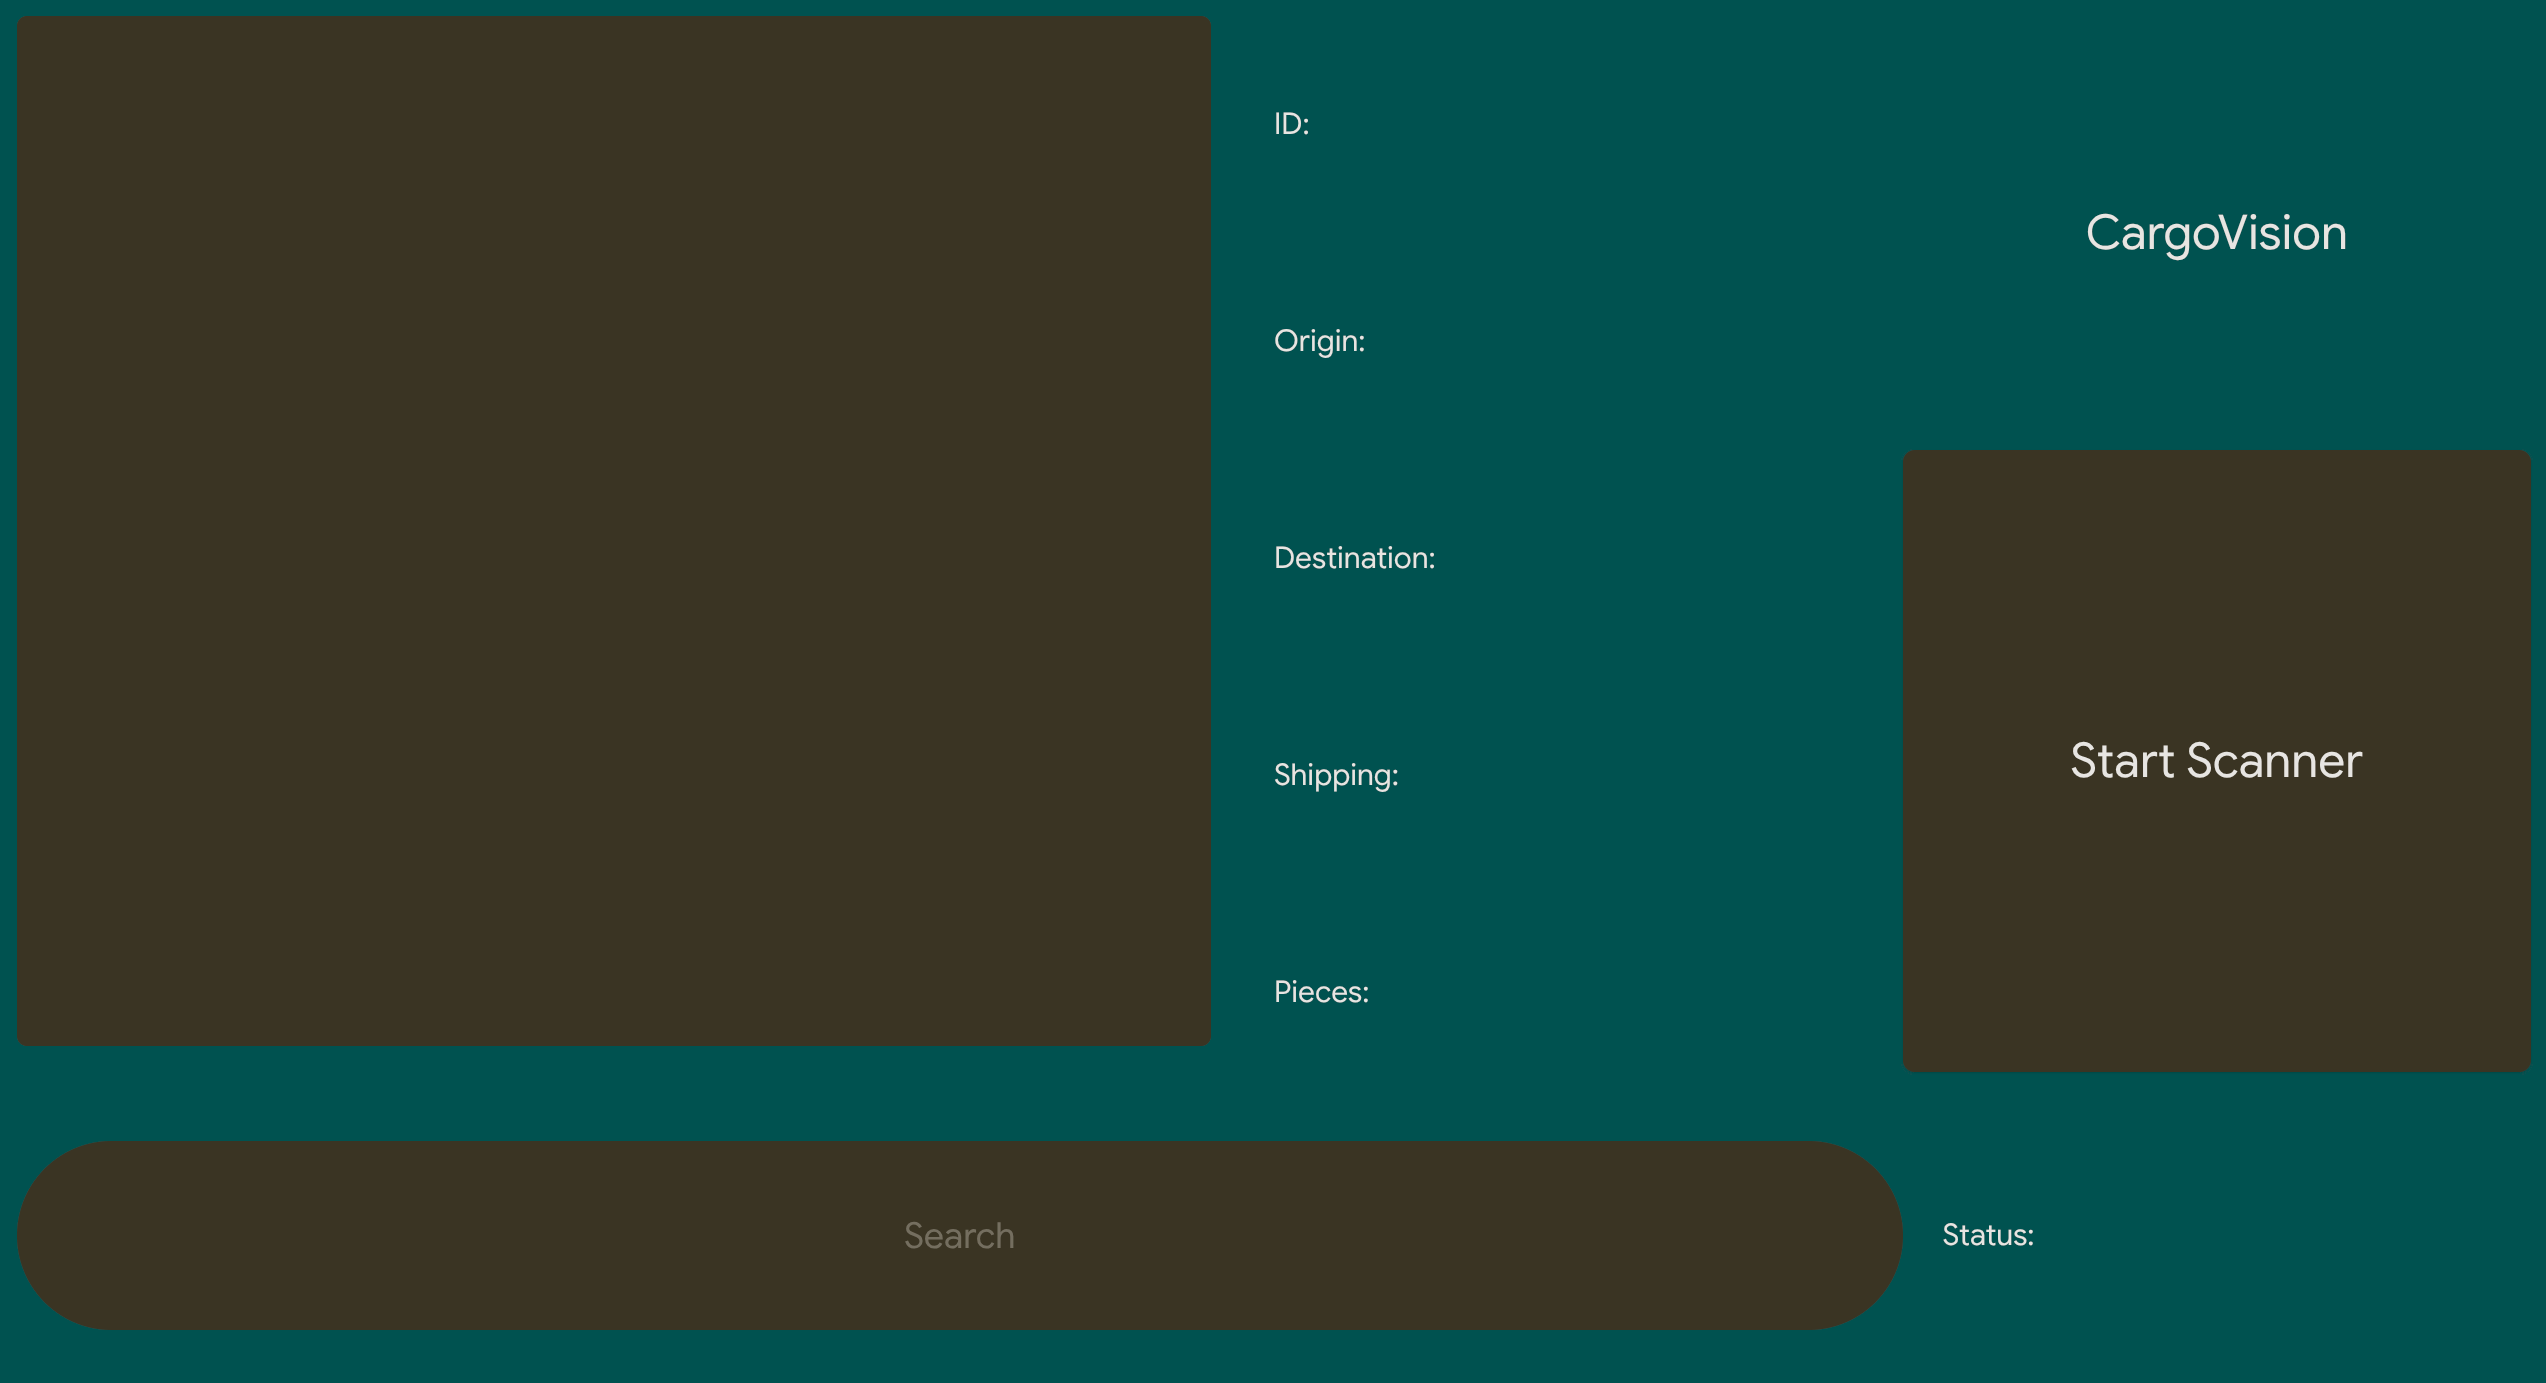
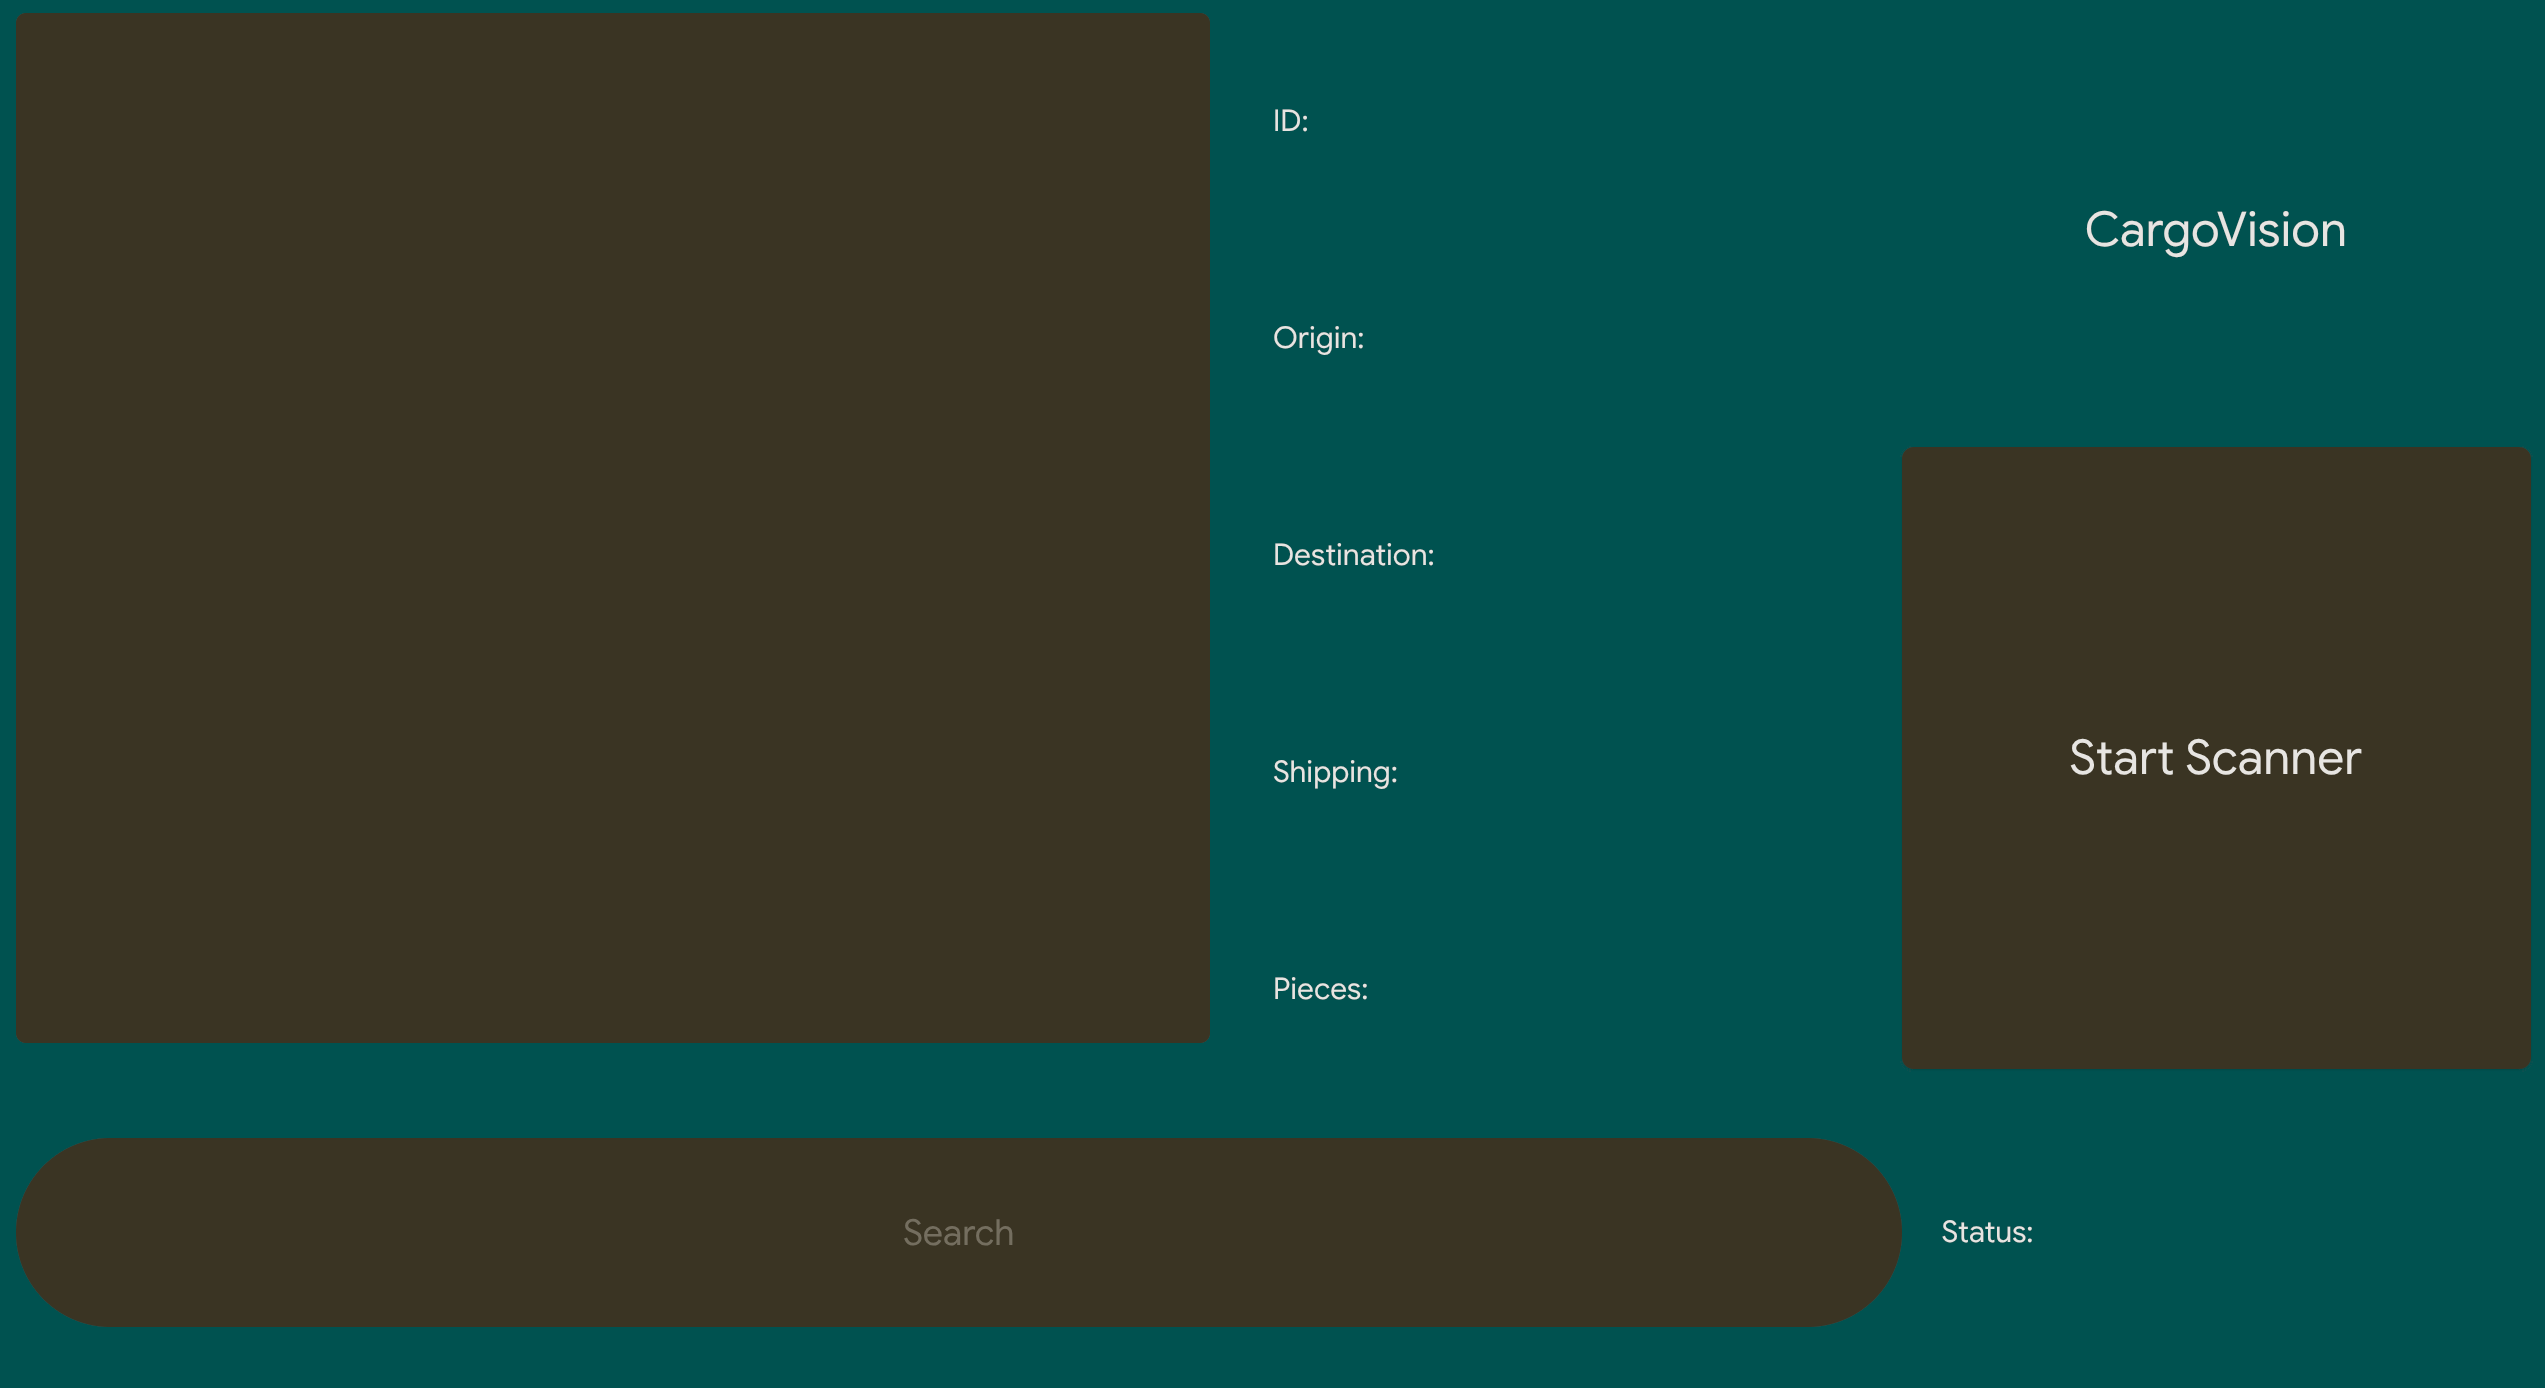
refactor: fix image scaling

diff --git a/components/cards/templates/ExperienceCardBack.tsx b/components/cards/templates/ExperienceCardBack.tsx
@@ -14,6 +14,7 @@ type Props = {
 
 export default function ExperienceCardBack({ highlights, images = [], cardLabel = "Experience" }: Props) {
     const [open, setOpen] = useState(false)
+    const [orientation, setOrientation] = useState<"landscape" | "portrait">("landscape")
 
     return (
         <>
@@ -28,13 +29,25 @@ export default function ExperienceCardBack({ highlights, images = [], cardLabel 
                         </ul>
 
                         {images[0] && (
-                            <div className="relative w-full h-full min-h-0 min-w-0">
-                                <div className="absolute inset-0 flex items-center justify-center p-2">
+                            <div className="relative w-full h-full min-h-0 min-w-0 overflow-hidden rounded-md">
+                                <div className="absolute inset-0 flex items-center justify-center">
                                     <img
                                         src={images[0].src}
                                         alt={images[0].alt ?? "screenshot"}
-                                        className="max-w-full max-h-full w-auto h-auto rounded-md object-contain cursor-pointer shadow-sm"
-                                        onClick={(e) => { e.stopPropagation(); setOpen(true) }}
+                                        onClick={(e) => { 
+                                            e.stopPropagation()
+                                            setOpen(true) 
+                                        }}
+                                        className={
+                                            "block object-contain rounded-md cursor-pointer " +
+                                            (orientation === "landscape"
+                                                ? "max-w-full h-auto max-h-none"
+                                                : "max-h-full w-auto max-w-none")
+                                        }
+                                        onLoad={(e) => {
+                                            const { naturalWidth, naturalHeight } = e.currentTarget
+                                            setOrientation(naturalWidth > naturalHeight ? "landscape" : "portrait")
+                                        }}
                                     />
                                 </div>
                             </div>

diff --git a/components/cards/work/WorkExperienceBonbon.tsx b/components/cards/work/WorkExperienceBonbon.tsx
@@ -25,6 +25,9 @@ export function WorkExperienceBonbonBack() {
                 "Developed algorithms to calculate dynamic drone coordinates for variable feet sizes and formations.",
                 "Developed embedded software for an educational robot car, supporting interactive learning use cases.",
             ]}
+            images={[
+                { src: "/Gallery/Bonbon/Drone_Coordinate_System.png", alt: "Drone Coordinate System" },
+            ]}
             cardLabel="Work Experience"
         />
     )